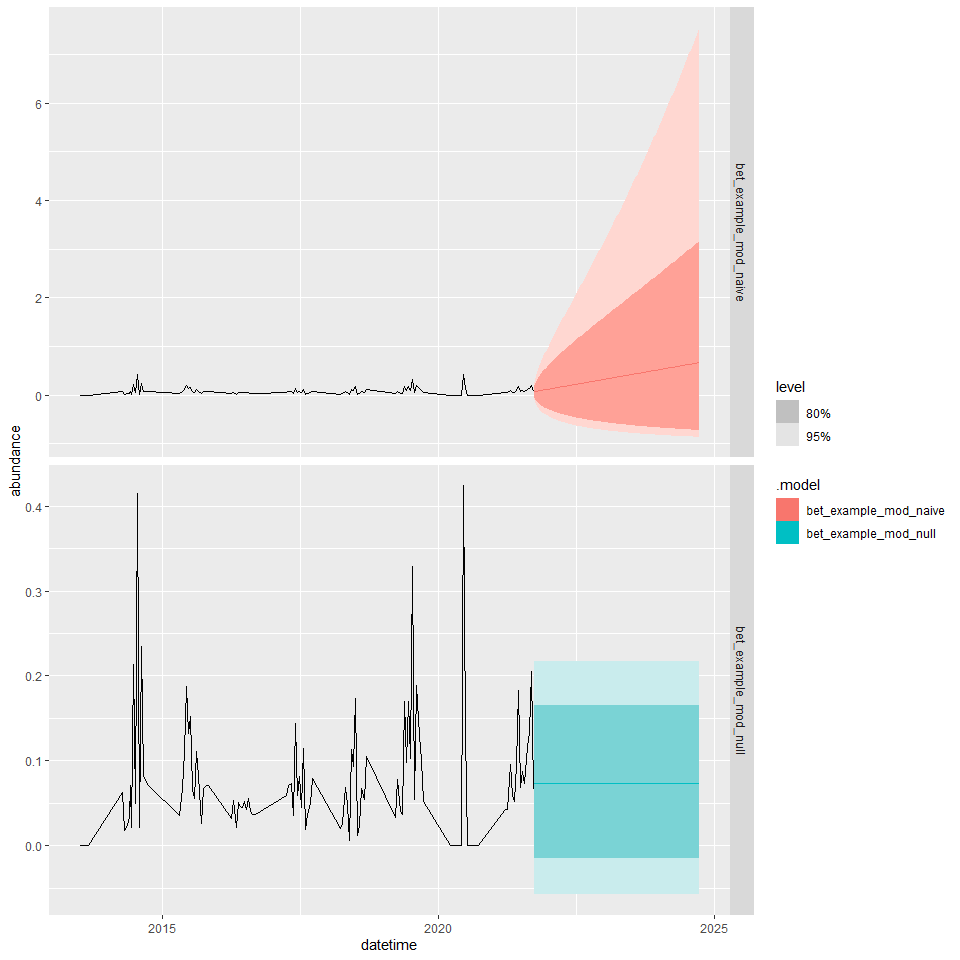
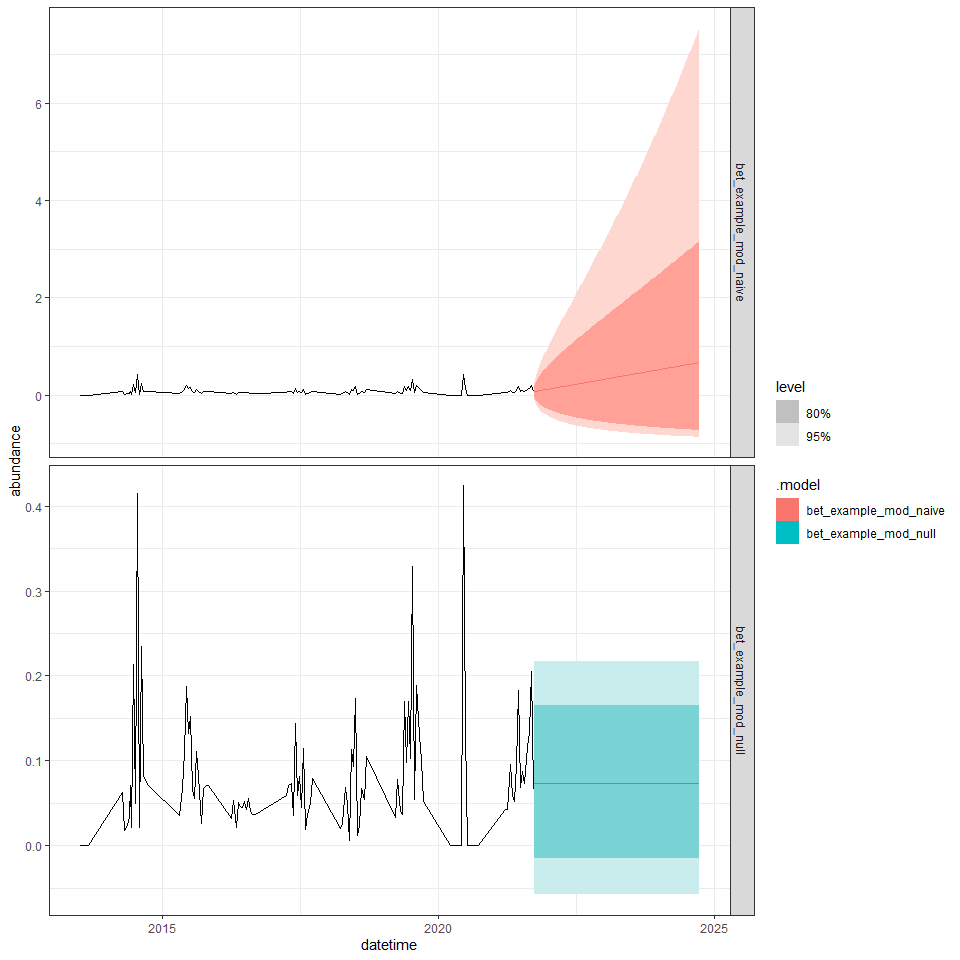
update ESA tutorial

diff --git a/tutorials/ESA2024/NEON_forecast_challenge_beetle_tutorial_ESA2024.md b/tutorials/ESA2024/NEON_forecast_challenge_beetle_tutorial_ESA2024.md
@@ -42,50 +42,9 @@ version$version.string
 
 ``` r
 library(tidyverse)
-```
-
-    ## Warning: package 'tidyverse' was built under R version 4.3.3
-
-    ## ── Attaching core tidyverse packages ──────────────────────── tidyverse 2.0.0 ──
-    ## ✔ dplyr     1.1.2     ✔ readr     2.1.4
-    ## ✔ forcats   1.0.0     ✔ stringr   1.5.0
-    ## ✔ ggplot2   3.4.3     ✔ tibble    3.2.1
-    ## ✔ lubridate 1.9.2     ✔ tidyr     1.3.0
-    ## ✔ purrr     1.0.2     
-    ## ── Conflicts ────────────────────────────────────────── tidyverse_conflicts() ──
-    ## ✖ dplyr::filter() masks stats::filter()
-    ## ✖ dplyr::lag()    masks stats::lag()
-    ## ℹ Use the conflicted package (<http://conflicted.r-lib.org/>) to force all conflicts to become errors
-
-``` r
 library(lubridate)
 library(tsibble)
-```
-
-    ## Warning: package 'tsibble' was built under R version 4.3.3
-
-    ## 
-    ## Attaching package: 'tsibble'
-    ## 
-    ## The following object is masked from 'package:lubridate':
-    ## 
-    ##     interval
-    ## 
-    ## The following objects are masked from 'package:base':
-    ## 
-    ##     intersect, setdiff, union
-
-``` r
 library(fable)
-```
-
-    ## Warning: package 'fable' was built under R version 4.3.2
-
-    ## Loading required package: fabletools
-
-    ## Warning: package 'fabletools' was built under R version 4.3.3
-
-``` r
 library(fabletools)
 library(neon4cast)
 ```
@@ -267,8 +226,6 @@ Let’s take a look at the targets data!
 
 ## 4.3 Visualise the data
 
-    ## Plot variable not specified, automatically selected `.vars = observation`
-
 <figure>
 <img
 src="NEON_forecast_challenge_beetle_tutorial_ESA2024_files/figure-markdown_github/unnamed-chunk-4-1.png"
@@ -337,25 +294,14 @@ package, which you can install using:
 So we do not overwhelm the open-meteo API, we have made the climate data
 used in this tutorial available at: TBD CyVerse address
 
+Climate model we’re using for this example is CMCC_CM2_VHR4
+
 ``` r
-# Get climate data ----
-path_to_clim_data <- "C:/Users/esokol/Box/00_MY_NEON/Forecasting_Beetles/future_climate_data/"
+# Get climate data
+path_to_clim_data <- "C:/Users/esokol/Box/00_MY_NEON/Forecasting_Beetles/future_climate_data/future_climate_2012-2050_OSBS_CMCC_CM2_VHR4.csv"
 
-# list files
-clim_file_list <- list.files(path_to_clim_data)
-
-# filter to files for target site
-clim_files_to_stack <- clim_file_list[grepl(my_site, clim_file_list)]
-
-# loop through to stack the files
-clim_long <- data.frame()
-for(i_file in clim_files_to_stack){
-  clim_long <- 
-    bind_rows(
-      clim_long,
-      read_csv(paste0(path_to_clim_data,i_file)) %>%
-        filter(datetime <= forecast_enddate))
-}
+clim_long <- read_csv(path_to_clim_data)  %>%
+        filter(datetime <= forecast_enddate)
 
 # make a tsibble object
 clim_long_ts <- clim_long %>%
@@ -373,7 +319,9 @@ clim_long_ts %>%
   geom_line() +
   facet_grid(variable ~ ., scales = "free_y") +
   geom_vline(xintercept = lubridate::as_date(forecast_date),
-             lty = 2)
+             lty = 2) + 
+  theme_bw() +
+  theme(legend.position = "none")
 ```
 
 ![](NEON_forecast_challenge_beetle_tutorial_ESA2024_files/figure-markdown_github/unnamed-chunk-8-1.png)
@@ -381,18 +329,13 @@ clim_long_ts %>%
 Pick output from one model from the climate ensemble:
 
 ``` r
-# We will only use output from one climate model for now
-clim_model_id <- "CMCC_CM2_VHR4"
-
 # subset into past and future datasets, based on forecast_date
 clim_past <- clim_wide %>%
-  filter(model_id == clim_model_id,
-         datetime < forecast_date,
+  filter(datetime < forecast_date,
          datetime > "2012-01-01")
 
 clim_future <- clim_wide %>%
-  filter(model_id == clim_model_id,
-         datetime >= forecast_date,
+  filter(datetime >= forecast_date,
          datetime <= forecast_enddate)
 ```
 
@@ -411,26 +354,20 @@ examine model fit statistics.
 # specify and fit model
 mod_fit_candidates <- targets_clim_train %>%
   fabletools::model(
-    mod_temp = fable::TSLM(log1p(abundance) ~ temperature_2m_mean),
-    mod_precip = fable::TSLM(log1p(abundance) ~ precipitation_sum),
-    mod_both = fable::TSLM(log1p(abundance) ~ temperature_2m_mean + precipitation_sum),
-    mod_temp_season = fable::TSLM(log1p(abundance) ~ temperature_2m_mean + season(period = "1 year")),
-    mod_precip_season = fable::TSLM(log1p(abundance) ~ precipitation_sum + season(period = "1 year")),
-    mod_season = fable::TSLM(log1p(abundance) ~ season(period = "1 year")))
+    bet_example_tslm_temp = fable::TSLM(log1p(abundance) ~ temperature_2m_mean),
+    bet_example_tslm_precip = fable::TSLM(log1p(abundance) ~ precipitation_sum),
+    bet_example_tslm_temp_precip = fable::TSLM(log1p(abundance) ~ temperature_2m_mean + precipitation_sum))
 
 # look at fit stats
 fabletools::report(mod_fit_candidates)
 ```
 
-    ## # A tibble: 6 × 15
+    ## # A tibble: 3 × 15
     ##   .model   r_squared adj_r_squared  sigma2 statistic p_value    df log_lik   AIC
     ##   <chr>        <dbl>         <dbl>   <dbl>     <dbl>   <dbl> <int>   <dbl> <dbl>
-    ## 1 mod_temp  0.0332         0.0245  0.00416    3.78    0.0544     2    149. -610.
-    ## 2 mod_pre…  0.000797      -0.00829 0.00430    0.0877  0.768      2    147. -606.
-    ## 3 mod_both  0.0333         0.0156  0.00420    1.88    0.158      3    149. -608.
-    ## 4 mod_tem…  0.245         -0.0221  0.00436    0.917   0.591     30    163. -582.
-    ## 5 mod_pre…  0.245         -0.0217  0.00436    0.919   0.589     30    163. -582.
-    ## 6 mod_sea…  0.245         -0.0101  0.00431    0.960   0.531     29    163. -584.
+    ## 1 bet_exa…  0.0332         0.0245  0.00416    3.78    0.0544     2    149. -610.
+    ## 2 bet_exa…  0.000797      -0.00829 0.00430    0.0877  0.768      2    147. -606.
+    ## 3 bet_exa…  0.0333         0.0156  0.00420    1.88    0.158      3    149. -608.
     ## # ℹ 6 more variables: AICc <dbl>, BIC <dbl>, CV <dbl>, deviance <dbl>,
     ## #   df.residual <int>, rank <int>
 
@@ -453,7 +390,7 @@ to create a forecast:
 
 ``` r
 # focus on temperature model for now
-mod_best_lm <- mod_fit_candidates %>% select(mod_temp)
+mod_best_lm <- mod_fit_candidates %>% select(bet_example_tslm_temp)
 report(mod_best_lm)
 ```
 
@@ -483,7 +420,6 @@ fc_best_lm <- mod_best_lm %>%
   fabletools::forecast(
     new_data = 
       clim_future %>%
-      dplyr::filter(model_id == clim_model_id) %>%
       as_tsibble(index = datetime)) 
 
 # visualize the forecast
@@ -502,12 +438,9 @@ fc_best_lm %>%
 # I'm putting "example" in the name so the model does not register as 
 # an official entry to the challenge
 
-# update model name for submission
-efi_model_id <- paste0("bet_example_lm_temp2m_",clim_model_id)
 
 # update dataframe of model output for submission
 fc_climate_mods_efi <- fc_best_lm %>% 
-  mutate(.model = efi_model_id) %>%
   mutate(site_id = my_site) %>% #efi needs a NEON site ID
   neon4cast::efi_format() %>%
   mutate(
